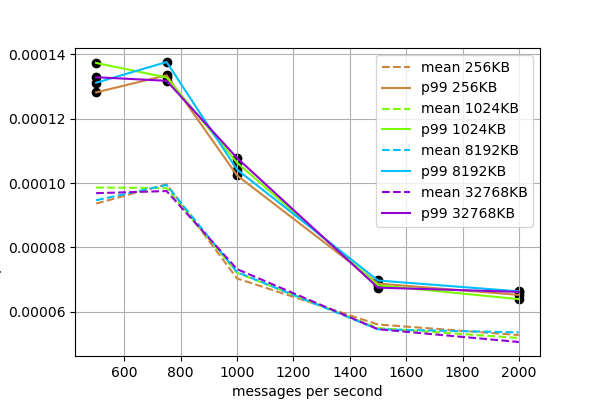
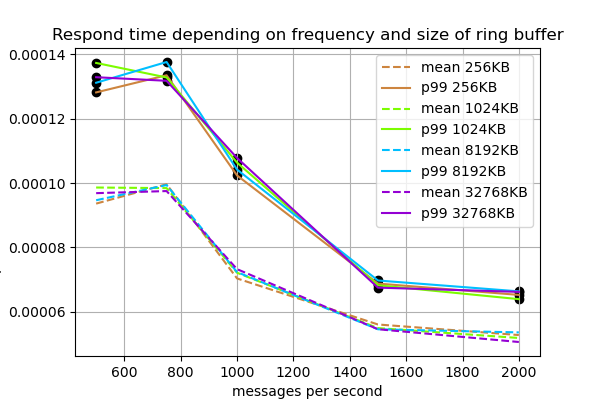
update plots

Changed region(s): [[0.09, 0.06, 0.93, 0.12]]

diff --git a/py/stats.py b/py/stats.py
@@ -70,6 +70,7 @@ def plot_stats(stats, name):
         ax.plot(x, y2, label=f'p99 {key//1024}KB', color=colors[i])
         ax.scatter(x, y2, color='black')
         i += 1
+    ax.set_title(f'Respond time depending on frequency and size of ring buffer')
     ax.legend()
     ax.grid()
     ax.set_ylabel('respond duration, seconds')

diff --git a/README.md b/README.md
@@ -88,12 +88,12 @@ Linux.
 
 Были проведены тесты для размеров буфферов 256Кб, 1Мб, 8Мб и 32Мб.
 
-|  200 сообщений в секунду       | 350 сообщений в секунду       | 500 сообщений в секунду        | 1000 сообщений в секунду        | 1500 сообщений в секунду        | 2000 сообщений в секунду        |
-|--------------------------------|-------------------------------|--------------------------------|---------------------------------|---------------------------------|---------------------------------|
-|  ![](img/graph_256K_200.png)   | ![](img/graph_256K_350.png)   |  ![](img/graph_256K_500.png)   |  ![](img/graph_256K_1000.png)   |  ![](img/graph_256K_1500.png)   |  ![](img/graph_256K_2000.png)   |
-|  ![](img/graph_1024K_200.png)  | ![](img/graph_1024K_350.png)  |  ![](img/graph_1024K_500.png)  |  ![](img/graph_1024K_1000.png)  |  ![](img/graph_1024K_1500.png)  |  ![](img/graph_1024K_2000.png)  |
-|  ![](img/graph_8192K_200.png)  | ![](img/graph_8192K_350.png)  |  ![](img/graph_8192K_500.png)  |  ![](img/graph_8192K_1000.png)  |  ![](img/graph_8192K_1500.png)  |  ![](img/graph_8192K_2000.png)  |
-|  ![](img/graph_32768K_200.png) | ![](img/graph_32768K_350.png) |  ![](img/graph_32768K_500.png) |  ![](img/graph_32768K_1000.png) |  ![](img/graph_32768K_1500.png) |  ![](img/graph_32768K_2000.png) |
+|  200 сообщений в секунду       | 500 сообщений в секунду        | 1000 сообщений в секунду        | 1500 сообщений в секунду        | 2000 сообщений в секунду        |
+|--------------------------------|--------------------------------|---------------------------------|---------------------------------|---------------------------------|
+|  ![](img/graph_256K_200.png)   |  ![](img/graph_256K_500.png)   |  ![](img/graph_256K_1000.png)   |  ![](img/graph_256K_1500.png)   |  ![](img/graph_256K_2000.png)   |
+|  ![](img/graph_1024K_200.png)  |  ![](img/graph_1024K_500.png)  |  ![](img/graph_1024K_1000.png)  |  ![](img/graph_1024K_1500.png)  |  ![](img/graph_1024K_2000.png)  |
+|  ![](img/graph_8192K_200.png)  |  ![](img/graph_8192K_500.png)  |  ![](img/graph_8192K_1000.png)  |  ![](img/graph_8192K_1500.png)  |  ![](img/graph_8192K_2000.png)  |
+|  ![](img/graph_32768K_200.png) |  ![](img/graph_32768K_500.png) |  ![](img/graph_32768K_1000.png) |  ![](img/graph_32768K_1500.png) |  ![](img/graph_32768K_2000.png) |
 
 Время ответа не меняется до 1000 сообщений в секунду. Зато он резко
 падает при 1500 сообщений в секунду. При всех размерах буффера время
